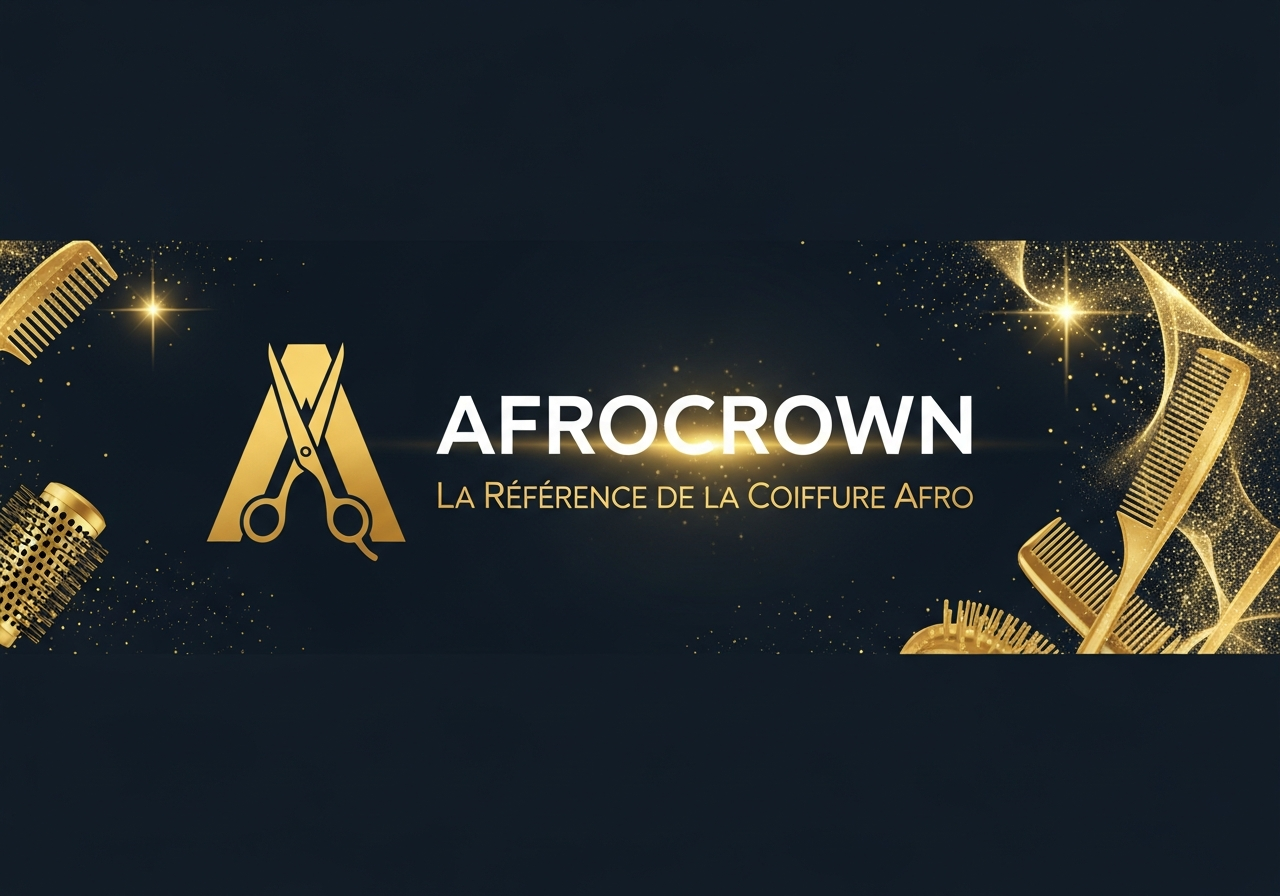
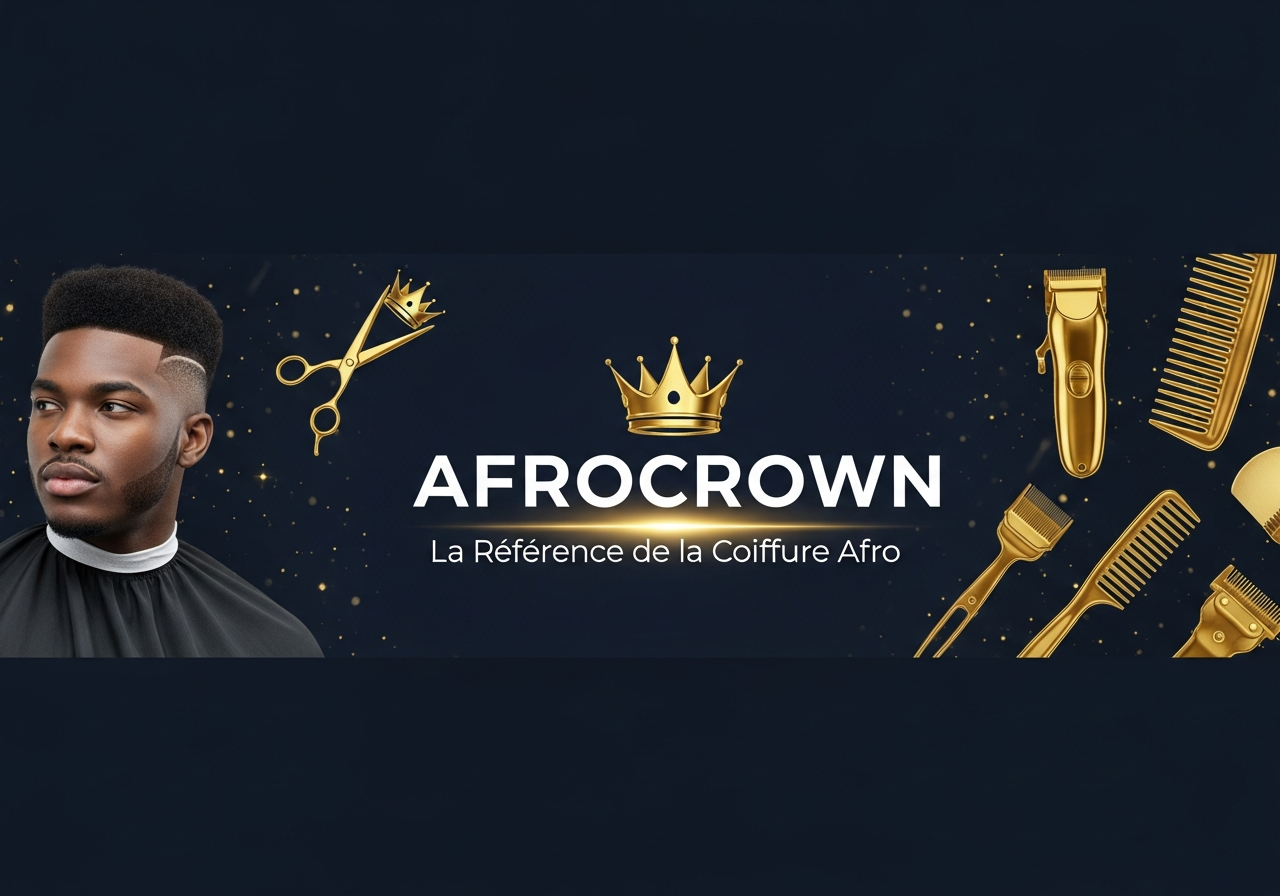
auto-commit for c9414eb0-3507-4c45-a5c6-73caa1818c91

Changed region(s): [[0.0, 0.25, 1.0, 0.75]]

diff --git a/mobile/PLAYSTORE_INFO.md b/mobile/PLAYSTORE_INFO.md
@@ -1,102 +1,106 @@
 # AfroCrown - Informations Play Store
 
-## Assets générés ✅
+## ✅ Assets générés pour le Play Store
 
-### Feature Graphic (1024x500)
-![Feature Graphic](https://static.prod-images.emergentagent.com/jobs/203a8c76-f88a-4348-b201-f9f8c0298fc2/images/23fe7ae2e86d4fa1ff2a40f67a4050bc19993e9e517e674a21a1d76e0c3fd50c.png)
+### Feature Graphic (1024x500) - VERSION HOMME
+![Feature Graphic](https://static.prod-images.emergentagent.com/jobs/203a8c76-f88a-4348-b201-f9f8c0298fc2/images/a329d1359422f95557fd35cad141f9ad6afdcf098859623ded18952e2acfcf57.png)
 
-### Screenshots Mockups
-1. **Écran d'accueil**: https://static.prod-images.emergentagent.com/jobs/203a8c76-f88a-4348-b201-f9f8c0298fc2/images/0f85f4ef3033ea3cb578a387694ce5482295075b8f67088ee1d2b863a7b947b6.png
-2. **Réservation**: https://static.prod-images.emergentagent.com/jobs/203a8c76-f88a-4348-b201-f9f8c0298fc2/images/b4962f8a7762b974d75084daa55ac41caad02ef8f5df8af1b8ef49d4f3ed0d42.png
-3. **Simulation IA**: https://static.prod-images.emergentagent.com/jobs/203a8c76-f88a-4348-b201-f9f8c0298fc2/images/f5f08e54fc0f62e56580c5b1e0c4c93530c9f0827d13c27de3a9a708c2a3cfa3.png
+**URL:** https://static.prod-images.emergentagent.com/jobs/203a8c76-f88a-4348-b201-f9f8c0298fc2/images/a329d1359422f95557fd35cad141f9ad6afdcf098859623ded18952e2acfcf57.png
 
 ---
 
-## Titre de l'application (max 30 caractères)
+### Screenshots (8 images)
+
+| # | Fonctionnalité | URL |
+|---|----------------|-----|
+| 1 | **Écran d'accueil** | https://static.prod-images.emergentagent.com/jobs/203a8c76-f88a-4348-b201-f9f8c0298fc2/images/0a070cbc5adc996c4aff0d406211b33f6e9e57fabe4bc34105fb2268688b30e7.png |
+| 2 | **Réservation** | https://static.prod-images.emergentagent.com/jobs/203a8c76-f88a-4348-b201-f9f8c0298fc2/images/60a9d17f5678d86b8f77b792b037f2c90cfd283531e658e48d84b77b3ca8819e.png |
+| 3 | **Simulation IA** | https://static.prod-images.emergentagent.com/jobs/203a8c76-f88a-4348-b201-f9f8c0298fc2/images/65d4e85935162855afd0b9294da05d15829191eee60e45620308fb3983db01e0.png |
+| 4 | **TrimConnect Battle** | https://static.prod-images.emergentagent.com/jobs/203a8c76-f88a-4348-b201-f9f8c0298fc2/images/4c89ddf09f4e199bf8e1e038cab4c310931706087e06a8b4edc16139869149fb.png |
+| 5 | **Marketplace** | https://static.prod-images.emergentagent.com/jobs/203a8c76-f88a-4348-b201-f9f8c0298fc2/images/45688bb5d4258ef027130c4eb474f65458a4a941ad674da81fb879d347c83393.png |
+| 6 | **Mes Rendez-vous** | https://static.prod-images.emergentagent.com/jobs/203a8c76-f88a-4348-b201-f9f8c0298fc2/images/219a1ff9454e3b1ffdf83d1495a3fe3b8da373761fb336a109e90186219ef09a.png |
+| 7 | **Tendances** | https://static.prod-images.emergentagent.com/jobs/203a8c76-f88a-4348-b201-f9f8c0298fc2/images/0dd83b2b1b5062b9bb9d524c4cd4d08c95c69d889c3927a254acee24a0647c45.png |
+
+---
+
+## Informations de l'application
+
+### Titre (max 30 caractères)
+```
 AfroCrown
+```
 
-## Description courte (max 80 caractères)
-Réservez votre coiffeur afro, simulez votre coupe avec l'IA et participez aux concours!
+### Description courte (max 80 caractères)
+```
+Réservez votre coiffeur afro, simulez votre coupe avec l'IA, participez aux concours!
+```
 
-## Description complète (max 4000 caractères)
-🏆 AfroCrown - La référence de la coiffure afro
+### Description complète (max 4000 caractères)
+```
+🏆 AfroCrown - La référence de la coiffure afro masculine
 
-Découvrez AfroCrown, la plateforme qui révolutionne l'expérience coiffure afro ! Que vous soyez à la recherche du salon parfait ou d'un coiffeur expert, AfroCrown vous connecte avec les meilleurs professionnels.
+Découvrez AfroCrown, l'application qui révolutionne l'expérience barbershop ! Que vous cherchiez le salon parfait ou un coiffeur expert en dégradés, AfroCrown vous connecte avec les meilleurs professionnels.
 
 ✂ RÉSERVATION SIMPLE
-• Trouvez des salons près de chez vous par géolocalisation
+• Trouvez des barbershops près de chez vous
 • Consultez les disponibilités en temps réel
 • Réservez votre créneau en quelques clics
 • Recevez des rappels pour vos rendez-vous
 
 🤖 SIMULATION IA EXCLUSIVE
-• Essayez plus de 30 styles de coiffures sur votre photo
-• Vue à 360° pour visualiser le résultat sous tous les angles
-• Trouvez le style qui vous correspond avant de vous engager
-• Partagez vos simulations avec vos amis
-
-🛍 MARKETPLACE
-• Découvrez les meilleurs produits capillaires
-• Recommandations personnalisées
-• Achetez directement depuis l'app
+• Essayez plus de 30 styles de coupes sur votre photo
+• Fade, dégradé, waves, tresses, afro, buzz cut...
+• Vue à 360° pour visualiser le résultat
+• Trouvez le style qui vous correspond
 
 🏅 TRIMCONNECT BATTLE
-• Participez au plus grand concours de coiffure afro
+• Le plus grand concours de coiffure afro
 • Votez pour vos créations préférées
-• Gagnez des prix exceptionnels
-• Rejoignez une communauté passionnée
+• Participez et gagnez des prix
+• Rejoignez une communauté de passionnés
 
-📱 FONCTIONNALITÉS
-• Interface intuitive et moderne
-• Mode sombre élégant
+🛍 MARKETPLACE
+• Produits capillaires premium
+• Tondeuses et accessoires professionnels
+• Recommandations personnalisées
+
+📅 GESTION DES RDV
+• Historique complet de vos coupes
 • Notifications de rappel
-• Historique de vos rendez-vous
-• Programme de fidélité
+• Reprogrammation facile
 
-Rejoignez des milliers d'utilisateurs qui font confiance à AfroCrown pour leur coiffure !
+🔥 TENDANCES
+• Découvrez les dernières tendances
+• Inspiration des meilleurs barbiers
+• Galerie de styles triés par popularité
+
+Rejoignez des milliers d'hommes qui font confiance à AfroCrown !
+```
+
+### Catégorie
+```
+Lifestyle / Beauté
+```
+
+### Tags/Mots-clés
+```
+coiffure, afro, barbershop, réservation, salon, coiffeur, barber, fade, dégradé, simulation, IA, beauté, homme, grooming
+```
+
+### Classification du contenu
+```
+Tout public (PEGI 3 / Everyone)
+```
 
 ---
-
-## Catégorie
-Lifestyle / Beauté
-
-## Tags/Mots-clés
-coiffure, afro, barbershop, réservation, salon, coiffeur, simulation, IA, beauté, tresses, dégradé, fade
-
-## Classification du contenu
-Tout public (PEGI 3 / Everyone)
 
 ## Coordonnées développeur
+
+```
 Email: contact@afrocrown.com
 Site web: https://afrocrown.com
-
-## Politique de confidentialité (OBLIGATOIRE)
-URL à créer: https://afrocrown.com/privacy
-
----
-
-## Assets requis
-
-### Icône de l'app
-✅ 512x512 PNG (présent: /app/mobile/assets/icon.png)
-
-### Feature Graphic (bannière Play Store)
-⚠ À créer: 1024x500 PNG
-- Fond dégradé doré/noir avec logo AfroCrown
-- Texte: "La référence de la coiffure afro"
-
-### Screenshots (minimum 2, recommandé 8)
-Dimensions: 1080x1920 (portrait) ou 1920x1080 (paysage)
-
-Screenshots recommandés:
-1. Écran d'accueil avec fonctionnalités principales
-2. Page de réservation avec salons
-3. Simulation IA avec styles de coiffures
-4. TrimConnect avec participations
-5. Marketplace avec produits
-6. Écran "Mes rendez-vous"
-7. Profil utilisateur
-8. Détail d'un salon avec coiffeurs
+Politique de confidentialité: https://afrocrown.com/privacy (À CRÉER)
+```
 
 ---
 
@@ -105,7 +109,8 @@ Screenshots recommandés:
 ### 1. APK de test (pour installer sur téléphone)
 ```bash
 cd /app/mobile
-npx eas-cli build --platform android --profile preview --local
+npx eas-cli login
+npx eas-cli build --platform android --profile preview
 ```
 
 ### 2. AAB pour Play Store (production)
@@ -119,3 +124,18 @@ npx eas-cli build --platform android --profile production
 cd /app/mobile
 npx eas-cli submit --platform android --profile production
 ```
+
+---
+
+## Checklist avant soumission
+
+- [ ] Compte Google Play Console créé (25$)
+- [ ] Feature Graphic uploadée
+- [ ] 8 screenshots uploadés
+- [ ] Description courte et longue remplies
+- [ ] Catégorie et tags sélectionnés
+- [ ] Politique de confidentialité créée et URL fournie
+- [ ] Classification du contenu remplie
+- [ ] Coordonnées développeur vérifiées
+- [ ] APK testé sur téléphone
+- [ ] AAB généré pour production
